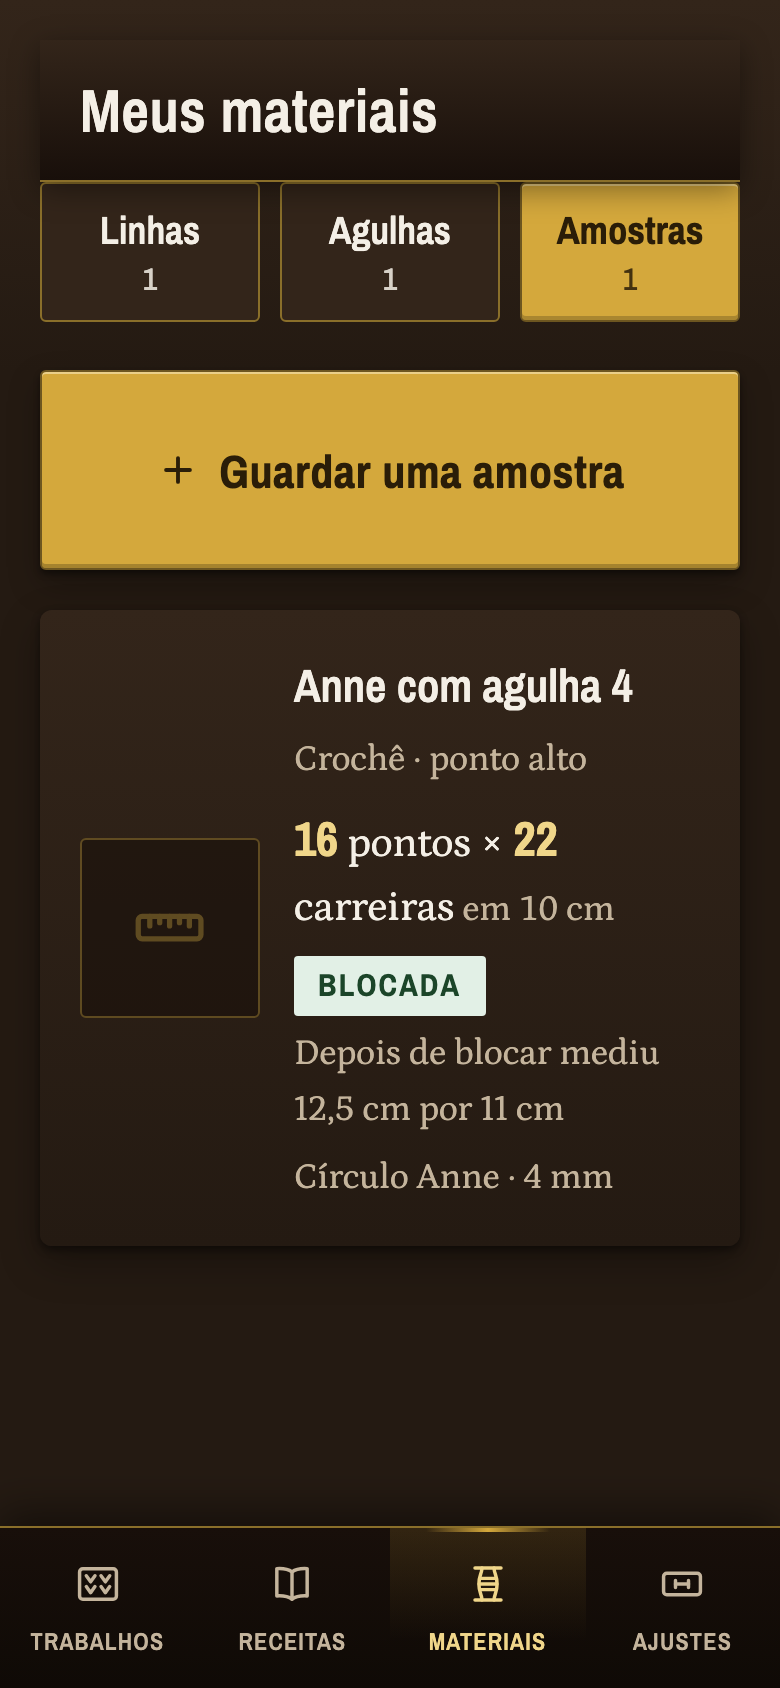
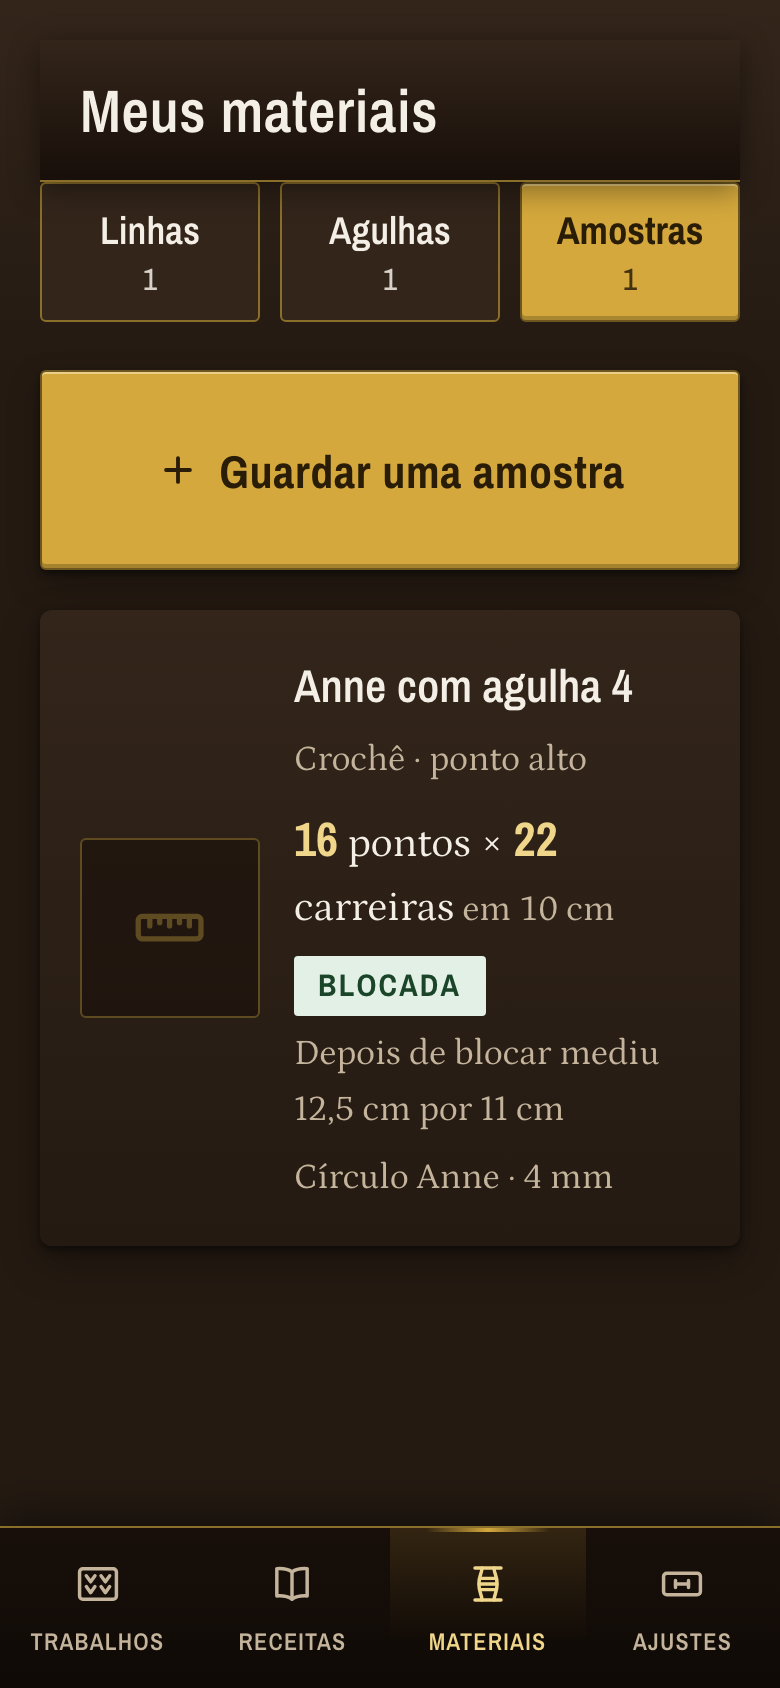
Acabamento: sombra de rolagem, órfãs e aresta da foto
A área de leitura da tela de trabalho cortava a próxima carreira no meio da
palavra, com uma linha reta que lê como defeito e não como continuação. O rodapé
passa a desenhar uma sombra curta por cima do corte, só enquanto houver mesmo
conteúdo abaixo — parada no fim da rolagem ela some, porque aí não há nada a
anunciar.

A primeira versão desse gancho não funcionava e a medição pegou: a tela aparece
antes no estado "ainda carregando", o efeito rodava com a referência vazia e
nunca mais rodava, porque o objeto de referência não muda. Agora o elemento vive
em estado e o efeito volta quando ele enfim existe.

text-wrap: pretty no texto curto e médio — "(135 pa)" partia em "(135 / pa)" e a
tela vazia quebrava em "Nenhuma / amostra guardada". A regra tinha sido escrita
antes e não pegou, porque o alvo já havia mudado no recolhimento de espaço; sem
o assert, passou calada.

A moldura da foto continua de latão, que é escolha de mundo, mas a aresta
encostada na imagem agora é branca a 12%: tingir a borda de uma foto com a cor
da marca joga um véu quente na foto do trabalho dela.

Suavização de fonte em escala de cinza na raiz, que é o que a serifa clara sobre
fundo escuro pede.

diff --git a/src/app/ganchos.ts b/src/app/ganchos.ts
@@ -205,3 +205,59 @@ export function formatarDuracao(segundos: number): string {
 export function formatarData(iso: string): string {
   return new Date(iso).toLocaleDateString('pt-BR', { day: '2-digit', month: '2-digit', year: 'numeric' })
 }
+
+/**
+ * Diz se ainda há conteúdo abaixo do que está à vista numa área que rola.
+ *
+ * A tela de trabalho cortava a próxima carreira no meio da palavra — "1 pa em
+ * cada ponto. (135" — com um corte reto que lê como defeito, não como "tem mais
+ * embaixo". Com isto o rodapé desenha uma sombra suave por cima do corte, e só
+ * enquanto houver mesmo o que ver.
+ *
+ * Devolve uma referência por função, e não um `useRef`. A tela aparece primeiro
+ * no estado "ainda carregando", sem a área que rola; com `useRef` o efeito roda
+ * uma vez com a referência vazia e nunca mais, porque o objeto de referência
+ * não muda — foi exatamente esse o defeito da primeira versão. Guardar o
+ * elemento em estado faz o efeito rodar de novo quando ele enfim existe.
+ */
+export function useTemMaisAbaixo(): {
+  prender: (elemento: HTMLElement | null) => void
+  temMais: boolean
+} {
+  const [elemento, prender] = useState<HTMLElement | null>(null)
+  const [temMais, setTemMais] = useState(false)
+
+  useEffect(() => {
+    if (!elemento) return
+
+    const conferir = () => {
+      const sobra = elemento.scrollHeight - elemento.scrollTop - elemento.clientHeight
+      // Uma folga de 2px evita piscar por causa de arredondamento de zoom.
+      setTemMais(sobra > 2)
+    }
+
+    conferir()
+    elemento.addEventListener('scroll', conferir, { passive: true })
+
+    // O texto reflui quando a fonte hospedada termina de carregar, e aí a
+    // altura do conteúdo muda sem que ninguém mexa no DOM.
+    void document.fonts?.ready.then(conferir)
+
+    // A caixa muda de tamanho ao girar o aparelho ou ao mudar o tamanho da letra.
+    const observador = new ResizeObserver(conferir)
+    observador.observe(elemento)
+    for (const filho of elemento.children) observador.observe(filho)
+
+    // O conteúdo cresce quando a carreira muda ou um contador aparece.
+    const mutacoes = new MutationObserver(conferir)
+    mutacoes.observe(elemento, { childList: true, subtree: true, characterData: true })
+
+    return () => {
+      elemento.removeEventListener('scroll', conferir)
+      observador.disconnect()
+      mutacoes.disconnect()
+    }
+  }, [elemento])
+
+  return { prender, temMais }
+}

diff --git a/src/estilo.css b/src/estilo.css
@@ -156,6 +156,13 @@
 html {
   font-size: calc(20px * var(--escala));
   background: var(--madeira);
+  /*
+    Serifa clara sobre fundo escuro engorda com a suavização subpixel do macOS.
+    Como toda a leitura do app é texto claro sobre madeira, ligar o antialias em
+    escala de cinza deixa a Petrona com o peso que ela foi desenhada para ter.
+  */
+  -webkit-font-smoothing: antialiased;
+  -moz-osx-font-smoothing: grayscale;
 }
 
 body {
@@ -204,6 +211,21 @@ h3 {
 
 p {
   margin: 0 0 0.7rem;
+}
+
+/*
+  Impede a última linha sozinha com uma palavra só. A tela de amostra vazia
+  quebrava em "Nenhuma / amostra guardada": órfã é leitura tropeçada, e aqui a
+  leitura é o produto. Fora de texto longo, onde a regra atrapalha mais do que
+  ajuda.
+*/
+p,
+.suave,
+.ajuda,
+.cartao-titulo,
+.vazio p,
+.carreira-atual .instrucao {
+  text-wrap: pretty;
 }
 
 /* As superfícies que não desenhei ainda carregam o mundo. */
@@ -464,6 +486,16 @@ button {
   background: var(--madeira-baixa);
   border: 1px solid var(--latao-fosco);
   flex-shrink: 0;
+}
+
+/*
+  A moldura é de latão porque é moldura de armário, e isso é escolha. Mas a
+  aresta encostada na imagem é branca a 12%, não latão: tingir a borda de uma
+  foto com a cor da marca joga um véu quente na foto do trabalho dela.
+*/
+img.miniatura {
+  outline: 1px solid rgba(255, 255, 255, 0.12);
+  outline-offset: -1px;
 }
 
 .suave {
@@ -1182,6 +1214,36 @@ button {
 }
 
 /* --------------------------------------------------------------- o puxador */
+
+/*
+  A sombra que diz "tem mais embaixo".
+
+  A área de leitura rola, e o corte no limite dela caía no meio da palavra — "1
+  pa em cada ponto. (135" — com uma linha reta que lê como defeito de tela, não
+  como continuação. O rodapé passa a desenhar uma sombra curta por cima do
+  corte, e só quando há mesmo conteúdo abaixo; parada no fim da rolagem, ela
+  some, porque aí não há nada que ela devesse anunciar.
+*/
+.trabalho-rodape {
+  position: relative;
+}
+
+.trabalho-rodape::before {
+  content: '';
+  position: absolute;
+  bottom: 100%;
+  left: 0;
+  right: 0;
+  height: 2.2rem;
+  pointer-events: none;
+  opacity: 0;
+  background: linear-gradient(to top, var(--madeira), transparent);
+  transition: opacity var(--tempo-toque) var(--saida-toque);
+}
+
+.trabalho-rodape.tem-mais::before {
+  opacity: 1;
+}
 
 .trabalho-rodape {
   flex-shrink: 0;

diff --git a/src/app/TelaTrabalho.tsx b/src/app/TelaTrabalho.tsx
@@ -7,7 +7,14 @@ import { marcarRepeticoes } from '../nucleo/repeticoes'
 import { IconeAvancar, IconePausar, IconeRetomar, IconeVoltar } from './icones'
 import { aplicarTamanho, contarTamanhos, dependeDoTamanho, nomesDeTamanhos } from '../nucleo/tamanhos'
 import { novoId, type Contador, type Lembrete, type Projeto } from '../nucleo/tipos'
-import { formatarDuracao, useComandoPorVoz, useCronometro, useSom, useTelaAcesa } from './ganchos'
+import {
+  formatarDuracao,
+  useComandoPorVoz,
+  useCronometro,
+  useSom,
+  useTelaAcesa,
+  useTemMaisAbaixo,
+} from './ganchos'
 import { Aviso, Campo, Confirmacao } from './ui'
 
 export function TelaTrabalho({ projetoId, navegacao }: { projetoId: string; navegacao: Navegacao }) {
@@ -22,6 +29,9 @@ export function TelaTrabalho({ projetoId, navegacao }: { projetoId: string; nave
   const [confirmandoZerar, setConfirmandoZerar] = useState(false)
 
   useTelaAcesa(ajustes.telaSempreAcesa)
+
+  // A sombra em cima do rodapé só aparece quando há mesmo mais o que ver.
+  const { prender: prenderCorpo, temMais: temMaisAbaixo } = useTemMaisAbaixo()
 
   /*
    * O acento desta peça é a cor do fio que ela cadastrou — o app não impõe uma
@@ -248,7 +258,7 @@ export function TelaTrabalho({ projetoId, navegacao }: { projetoId: string; nave
         <h1 style={{ fontSize: '1.1rem' }}>{projeto.nome}</h1>
       </header>
 
-      <div className="trabalho-corpo">
+      <div className="trabalho-corpo" ref={prenderCorpo}>
         {lembretesAgora.map((lembrete) => (
           <div key={lembrete.id} className="aviso atencao" style={{ display: 'block' }}>
             <div style={{ fontSize: '1.15rem', fontWeight: 700, marginBottom: '0.5rem' }}>
@@ -522,7 +532,7 @@ export function TelaTrabalho({ projetoId, navegacao }: { projetoId: string; nave
         </div>
       </div>
 
-      <footer className="trabalho-rodape">
+      <footer className={`trabalho-rodape${temMaisAbaixo ? ' tem-mais' : ''}`}>
         {/*
           O sulco mora no rodapé fixo, não no corpo rolável: no celular ele
           caía abaixo da dobra justo quando o puxador passou a ocupar a largura
